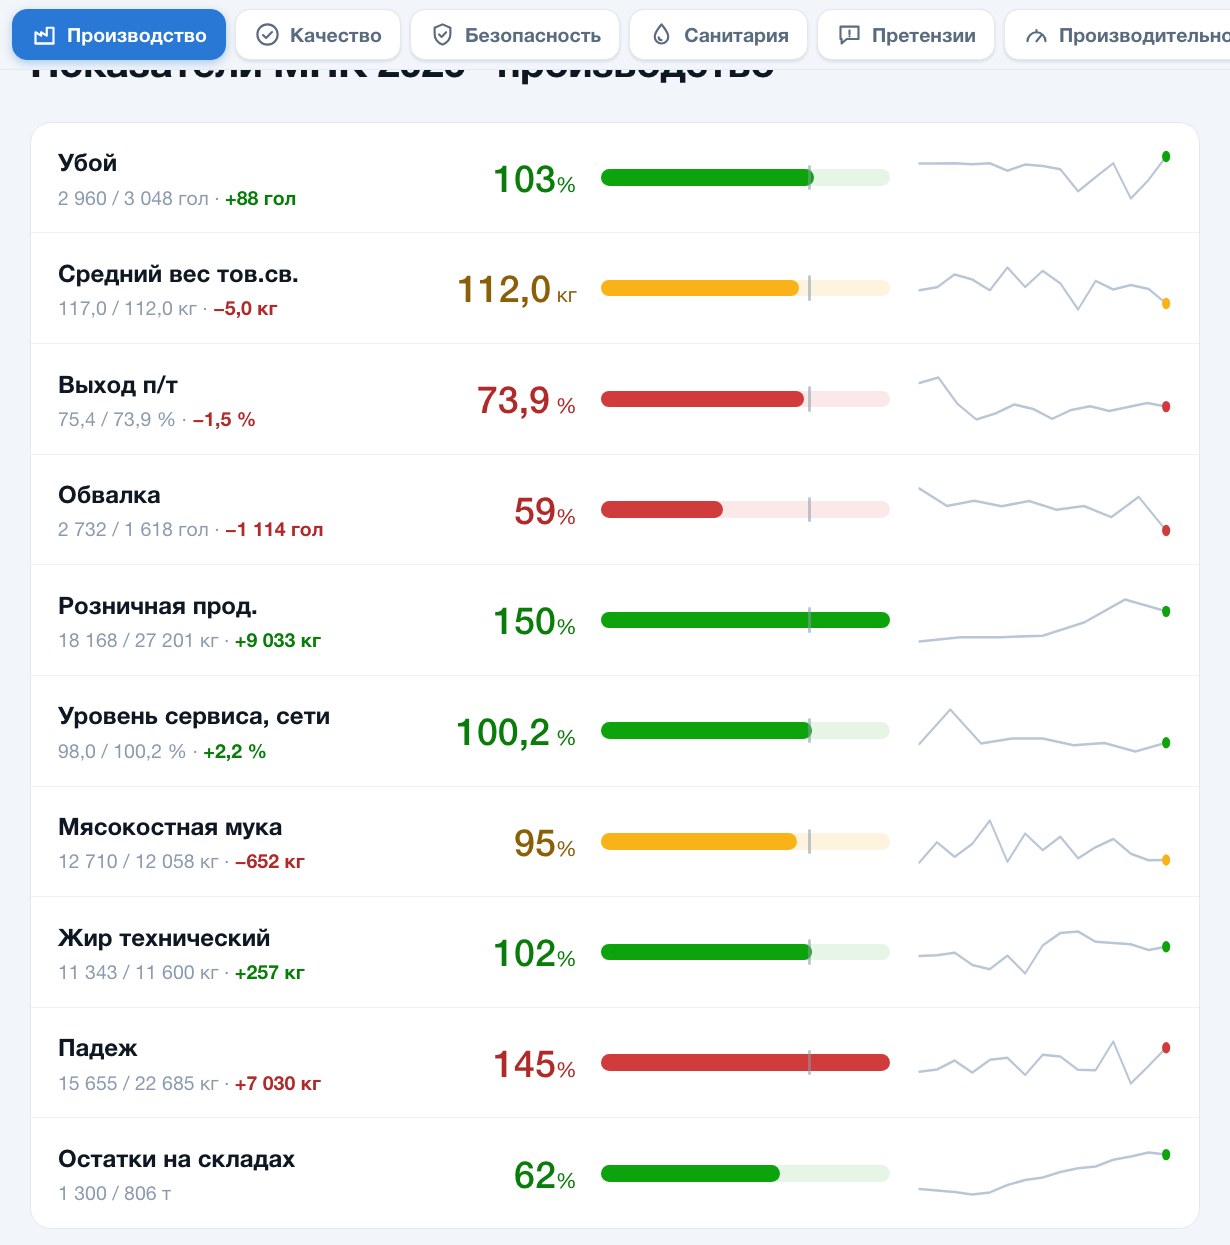
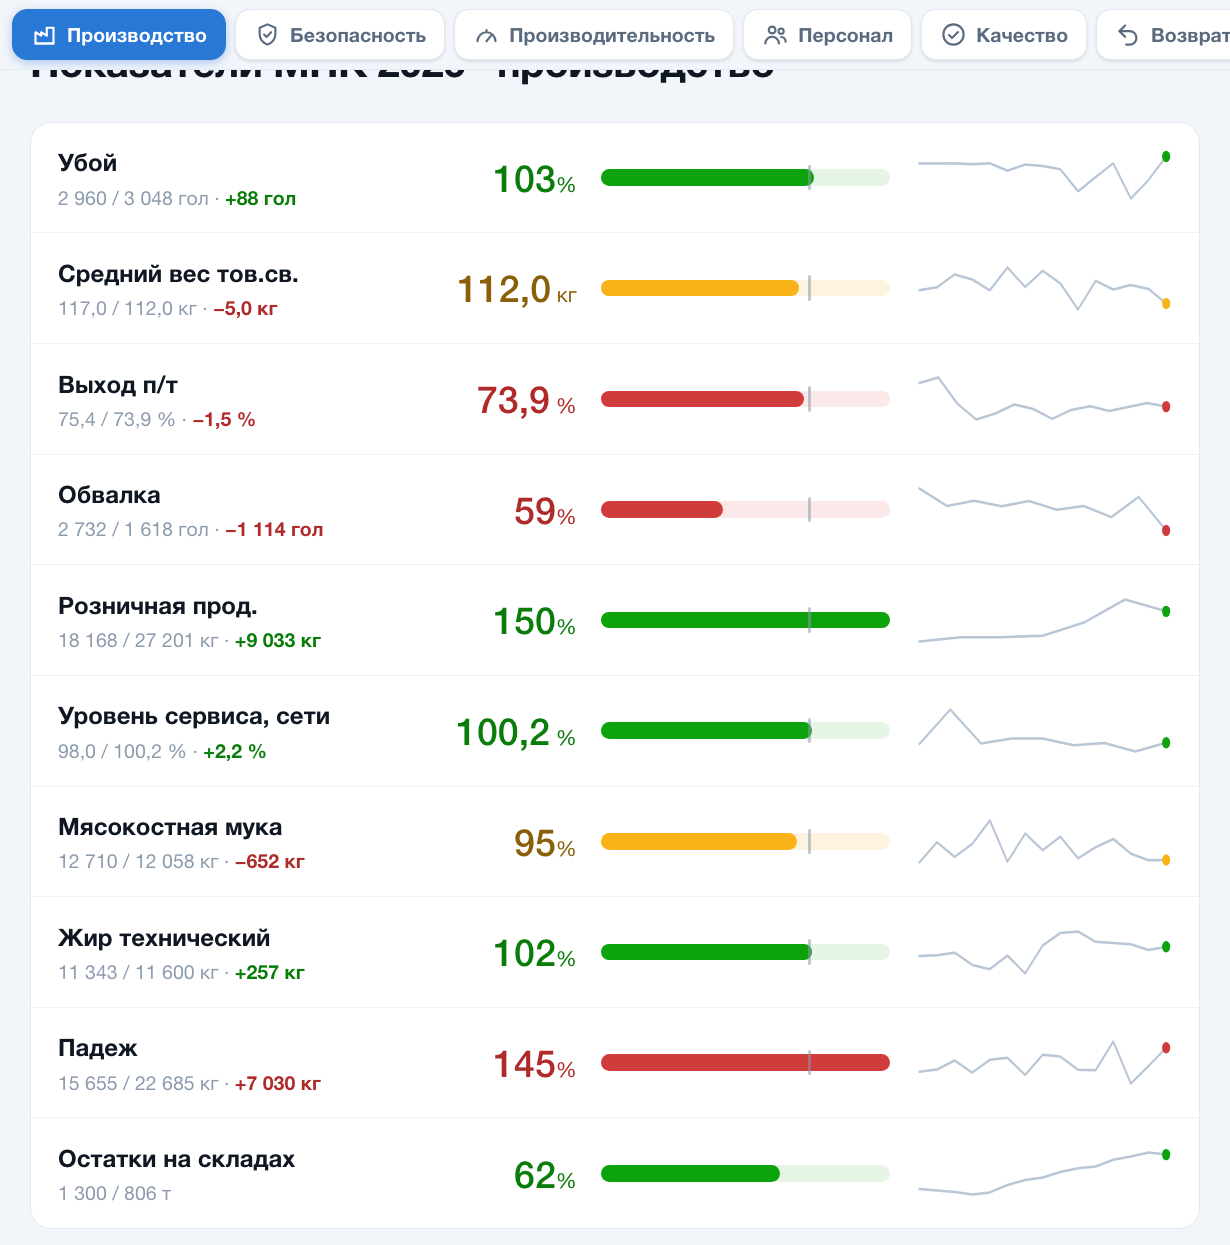
Данные по 15.10.2026

Changed region(s): [[0.4634, 0.0, 0.9577, 0.061], [0.278, 0.0, 0.4325, 0.061], [0.9886, 0.0, 1.0, 0.0305]]

diff --git a/index.html b/index.html
@@ -8,10 +8,10 @@
 <meta property="og:type" content="website">
 <meta property="og:site_name" content="&#8203;">
 <meta property="og:title" content="Сводка МПК за 15.10.2026">
-<meta property="og:image" content="https://pashaleb-alt.github.io/MPK/preview.png?v=20261017061342">
+<meta property="og:image" content="https://pashaleb-alt.github.io/MPK/preview.png?v=20261017061742">
 <meta property="og:image:width" content="1230"><meta property="og:image:height" content="1245">
 <meta name="twitter:card" content="summary_large_image">
-<meta name="twitter:image" content="https://pashaleb-alt.github.io/MPK/preview.png?v=20261017061342">
+<meta name="twitter:image" content="https://pashaleb-alt.github.io/MPK/preview.png?v=20261017061742">
 <title>Показатели МПК 2026</title>
 <style>:root{color-scheme:light dark}html,body{margin:0;padding:0}img{max-width:100%}[hidden]{display:none!important}</style>
 <script>if(/tgWebApp/.test(location.hash)){var s=document.createElement("script");s.src="https://telegram.org/js/telegram-web-app.js";s.onload=function(){try{Telegram.WebApp.ready();Telegram.WebApp.expand()}catch(e){}};document.head.appendChild(s)}</script>
@@ -191,7 +191,7 @@ input[type=date]:focus-visible{outline:2px solid var(--accent);outline-offset:2p
 (()=>{try{const q=new URLSearchParams(location.search).get("theme"); if(q==="light"||q==="dark") localStorage.setItem("mpkTheme",q); if(q==="auto") localStorage.setItem("mpkTheme","auto");
 const t=localStorage.getItem("mpkTheme")||"light"; if(t!=="auto") document.documentElement.setAttribute("data-theme",t);}catch(e){document.documentElement.setAttribute("data-theme","light")}})();</script>
 <div class="wrap">
-  <nav class="dashnav" aria-label="Дашборды"><a href="/MPK/" class="on" data-p="prod"><svg viewBox="0 0 24 24" aria-hidden="true"><path d="M4 20V10l5 3V10l5 3V6h6v14z"/><path d="M4 20h16"/></svg><span>Производство</span></a><a href="/MPK/quality/" data-p="quality"><svg viewBox="0 0 24 24" aria-hidden="true"><circle cx="12" cy="12" r="9"/><path d="M8 12.5l2.7 2.7L16 9.8"/></svg><span>Качество</span></a><a href="/MPK/safety/" data-p="safety"><svg viewBox="0 0 24 24" aria-hidden="true"><path d="M12 3l7 3v5.5c0 4.3-2.9 7.7-7 9.5-4.1-1.8-7-5.2-7-9.5V6z"/><path d="M9 12l2.2 2.2L15.2 10"/></svg><span>Безопасность</span></a><a href="/MPK/sanitary/" data-p="sanitary"><svg viewBox="0 0 24 24" aria-hidden="true"><path d="M12 3c3.2 4 6 7 6 11a6 6 0 0 1-12 0c0-4 2.8-7 6-11z"/><path d="M9.5 14.5a2.5 2.5 0 0 0 2.5 2.5"/></svg><span>Санитария</span></a><a href="/MPK/claims/" data-p="claims"><svg viewBox="0 0 24 24" aria-hidden="true"><path d="M4 5h16v11H9.5L5 20v-4H4z"/><path d="M12 8.5v3.2"/><path d="M12 13.6v.1"/></svg><span>Претензии</span></a><a href="/MPK/labor/" data-p="labor"><svg viewBox="0 0 24 24" aria-hidden="true"><path d="M4 18a8 8 0 1 1 16 0"/><path d="M12 18l4-5"/><path d="M12 8v1.5"/></svg><span><span class="lf">Производительность</span><span class="ls">Произв. труда</span></span></a><a href="/MPK/returns/" data-p="returns"><svg viewBox="0 0 24 24" aria-hidden="true"><path d="M9 14L4 9l5-5"/><path d="M4 9h9a6 6 0 0 1 0 12h-3"/></svg><span>Возвраты</span></a><a href="/MPK/staff/" data-p="staff"><svg viewBox="0 0 24 24" aria-hidden="true"><circle cx="9" cy="8" r="3"/><path d="M3 20c0-3.3 2.7-6 6-6s6 2.7 6 6"/><circle cx="17" cy="9" r="2.3"/><path d="M17 14.2c2.4 0 4 1.8 4 4.3"/></svg><span>Персонал</span></a></nav>
+  <nav class="dashnav" aria-label="Дашборды"><a href="/MPK/" class="on" data-p="prod"><svg viewBox="0 0 24 24" aria-hidden="true"><path d="M4 20V10l5 3V10l5 3V6h6v14z"/><path d="M4 20h16"/></svg><span>Производство</span></a><a href="/MPK/safety/" data-p="safety"><svg viewBox="0 0 24 24" aria-hidden="true"><path d="M12 3l7 3v5.5c0 4.3-2.9 7.7-7 9.5-4.1-1.8-7-5.2-7-9.5V6z"/><path d="M9 12l2.2 2.2L15.2 10"/></svg><span>Безопасность</span></a><a href="/MPK/labor/" data-p="labor"><svg viewBox="0 0 24 24" aria-hidden="true"><path d="M4 18a8 8 0 1 1 16 0"/><path d="M12 18l4-5"/><path d="M12 8v1.5"/></svg><span><span class="lf">Производительность</span><span class="ls">Произв. труда</span></span></a><a href="/MPK/staff/" data-p="staff"><svg viewBox="0 0 24 24" aria-hidden="true"><circle cx="9" cy="8" r="3"/><path d="M3 20c0-3.3 2.7-6 6-6s6 2.7 6 6"/><circle cx="17" cy="9" r="2.3"/><path d="M17 14.2c2.4 0 4 1.8 4 4.3"/></svg><span>Персонал</span></a><a href="/MPK/quality/" data-p="quality"><svg viewBox="0 0 24 24" aria-hidden="true"><circle cx="12" cy="12" r="9"/><path d="M8 12.5l2.7 2.7L16 9.8"/></svg><span>Качество</span></a><a href="/MPK/returns/" data-p="returns"><svg viewBox="0 0 24 24" aria-hidden="true"><path d="M9 14L4 9l5-5"/><path d="M4 9h9a6 6 0 0 1 0 12h-3"/></svg><span>Возвраты</span></a><a href="/MPK/claims/" data-p="claims"><svg viewBox="0 0 24 24" aria-hidden="true"><path d="M4 5h16v11H9.5L5 20v-4H4z"/><path d="M12 8.5v3.2"/><path d="M12 13.6v.1"/></svg><span>Претензии</span></a><a href="/MPK/sanitary/" data-p="sanitary"><svg viewBox="0 0 24 24" aria-hidden="true"><path d="M12 3c3.2 4 6 7 6 11a6 6 0 0 1-12 0c0-4 2.8-7 6-11z"/><path d="M9.5 14.5a2.5 2.5 0 0 0 2.5 2.5"/></svg><span>Санитария</span></a></nav>
 <script>(()=>{try{if(!navigator.standalone&&!matchMedia("(display-mode: standalone)").matches&&!/tgWebApp/.test(location.hash)&&/iPhone|iPad/.test(navigator.userAgent))document.documentElement.classList.add("inbrowser")}catch(e){}})();</script>
 <script>document.querySelectorAll(".dashnav a").forEach(a=>a.addEventListener("click",e=>{e.preventDefault();const u=new URL(a.getAttribute("href"),location.origin);u.searchParams.set("v",Date.now());location.assign(u.toString())}));</script>
 <script>(()=>{const c=()=>{try{const n=document.querySelector(".dashnav"),a=n.querySelector("a.on");if(a)n.scrollLeft=a.offsetLeft-(n.clientWidth-a.offsetWidth)/2}catch(e){}};addEventListener("DOMContentLoaded",c);addEventListener("load",c);setTimeout(c,60);setTimeout(c,400)})();</script>

diff --git a/labor/index.html b/labor/index.html
@@ -8,10 +8,10 @@
 <meta property="og:type" content="website">
 <meta property="og:site_name" content="&#8203;">
 <meta property="og:title" content="Сводка МПК за 15.10.2026">
-<meta property="og:image" content="https://pashaleb-alt.github.io/MPK/preview.png?v=20261017061342">
+<meta property="og:image" content="https://pashaleb-alt.github.io/MPK/preview.png?v=20261017061742">
 <meta property="og:image:width" content="1230"><meta property="og:image:height" content="1245">
 <meta name="twitter:card" content="summary_large_image">
-<meta name="twitter:image" content="https://pashaleb-alt.github.io/MPK/preview.png?v=20261017061342">
+<meta name="twitter:image" content="https://pashaleb-alt.github.io/MPK/preview.png?v=20261017061742">
 <title>Показатели МПК 2026</title>
 <style>:root{color-scheme:light dark}html,body{margin:0;padding:0}img{max-width:100%}[hidden]{display:none!important}</style>
 <script>if(/tgWebApp/.test(location.hash)){var s=document.createElement("script");s.src="https://telegram.org/js/telegram-web-app.js";s.onload=function(){try{Telegram.WebApp.ready();Telegram.WebApp.expand()}catch(e){}};document.head.appendChild(s)}</script>
@@ -191,7 +191,7 @@ input[type=date]:focus-visible{outline:2px solid var(--accent);outline-offset:2p
 (()=>{try{const q=new URLSearchParams(location.search).get("theme"); if(q==="light"||q==="dark") localStorage.setItem("mpkTheme",q); if(q==="auto") localStorage.setItem("mpkTheme","auto");
 const t=localStorage.getItem("mpkTheme")||"light"; if(t!=="auto") document.documentElement.setAttribute("data-theme",t);}catch(e){document.documentElement.setAttribute("data-theme","light")}})();</script>
 <div class="wrap">
-  <nav class="dashnav" aria-label="Дашборды"><a href="/MPK/" class="on" data-p="prod"><svg viewBox="0 0 24 24" aria-hidden="true"><path d="M4 20V10l5 3V10l5 3V6h6v14z"/><path d="M4 20h16"/></svg><span>Производство</span></a><a href="/MPK/quality/" data-p="quality"><svg viewBox="0 0 24 24" aria-hidden="true"><circle cx="12" cy="12" r="9"/><path d="M8 12.5l2.7 2.7L16 9.8"/></svg><span>Качество</span></a><a href="/MPK/safety/" data-p="safety"><svg viewBox="0 0 24 24" aria-hidden="true"><path d="M12 3l7 3v5.5c0 4.3-2.9 7.7-7 9.5-4.1-1.8-7-5.2-7-9.5V6z"/><path d="M9 12l2.2 2.2L15.2 10"/></svg><span>Безопасность</span></a><a href="/MPK/sanitary/" data-p="sanitary"><svg viewBox="0 0 24 24" aria-hidden="true"><path d="M12 3c3.2 4 6 7 6 11a6 6 0 0 1-12 0c0-4 2.8-7 6-11z"/><path d="M9.5 14.5a2.5 2.5 0 0 0 2.5 2.5"/></svg><span>Санитария</span></a><a href="/MPK/claims/" data-p="claims"><svg viewBox="0 0 24 24" aria-hidden="true"><path d="M4 5h16v11H9.5L5 20v-4H4z"/><path d="M12 8.5v3.2"/><path d="M12 13.6v.1"/></svg><span>Претензии</span></a><a href="/MPK/labor/" data-p="labor"><svg viewBox="0 0 24 24" aria-hidden="true"><path d="M4 18a8 8 0 1 1 16 0"/><path d="M12 18l4-5"/><path d="M12 8v1.5"/></svg><span><span class="lf">Производительность</span><span class="ls">Произв. труда</span></span></a><a href="/MPK/returns/" data-p="returns"><svg viewBox="0 0 24 24" aria-hidden="true"><path d="M9 14L4 9l5-5"/><path d="M4 9h9a6 6 0 0 1 0 12h-3"/></svg><span>Возвраты</span></a><a href="/MPK/staff/" data-p="staff"><svg viewBox="0 0 24 24" aria-hidden="true"><circle cx="9" cy="8" r="3"/><path d="M3 20c0-3.3 2.7-6 6-6s6 2.7 6 6"/><circle cx="17" cy="9" r="2.3"/><path d="M17 14.2c2.4 0 4 1.8 4 4.3"/></svg><span>Персонал</span></a></nav>
+  <nav class="dashnav" aria-label="Дашборды"><a href="/MPK/" class="on" data-p="prod"><svg viewBox="0 0 24 24" aria-hidden="true"><path d="M4 20V10l5 3V10l5 3V6h6v14z"/><path d="M4 20h16"/></svg><span>Производство</span></a><a href="/MPK/safety/" data-p="safety"><svg viewBox="0 0 24 24" aria-hidden="true"><path d="M12 3l7 3v5.5c0 4.3-2.9 7.7-7 9.5-4.1-1.8-7-5.2-7-9.5V6z"/><path d="M9 12l2.2 2.2L15.2 10"/></svg><span>Безопасность</span></a><a href="/MPK/labor/" data-p="labor"><svg viewBox="0 0 24 24" aria-hidden="true"><path d="M4 18a8 8 0 1 1 16 0"/><path d="M12 18l4-5"/><path d="M12 8v1.5"/></svg><span><span class="lf">Производительность</span><span class="ls">Произв. труда</span></span></a><a href="/MPK/staff/" data-p="staff"><svg viewBox="0 0 24 24" aria-hidden="true"><circle cx="9" cy="8" r="3"/><path d="M3 20c0-3.3 2.7-6 6-6s6 2.7 6 6"/><circle cx="17" cy="9" r="2.3"/><path d="M17 14.2c2.4 0 4 1.8 4 4.3"/></svg><span>Персонал</span></a><a href="/MPK/quality/" data-p="quality"><svg viewBox="0 0 24 24" aria-hidden="true"><circle cx="12" cy="12" r="9"/><path d="M8 12.5l2.7 2.7L16 9.8"/></svg><span>Качество</span></a><a href="/MPK/returns/" data-p="returns"><svg viewBox="0 0 24 24" aria-hidden="true"><path d="M9 14L4 9l5-5"/><path d="M4 9h9a6 6 0 0 1 0 12h-3"/></svg><span>Возвраты</span></a><a href="/MPK/claims/" data-p="claims"><svg viewBox="0 0 24 24" aria-hidden="true"><path d="M4 5h16v11H9.5L5 20v-4H4z"/><path d="M12 8.5v3.2"/><path d="M12 13.6v.1"/></svg><span>Претензии</span></a><a href="/MPK/sanitary/" data-p="sanitary"><svg viewBox="0 0 24 24" aria-hidden="true"><path d="M12 3c3.2 4 6 7 6 11a6 6 0 0 1-12 0c0-4 2.8-7 6-11z"/><path d="M9.5 14.5a2.5 2.5 0 0 0 2.5 2.5"/></svg><span>Санитария</span></a></nav>
 <script>(()=>{try{if(!navigator.standalone&&!matchMedia("(display-mode: standalone)").matches&&!/tgWebApp/.test(location.hash)&&/iPhone|iPad/.test(navigator.userAgent))document.documentElement.classList.add("inbrowser")}catch(e){}})();</script>
 <script>document.querySelectorAll(".dashnav a").forEach(a=>a.addEventListener("click",e=>{e.preventDefault();const u=new URL(a.getAttribute("href"),location.origin);u.searchParams.set("v",Date.now());location.assign(u.toString())}));</script>
 <script>(()=>{const c=()=>{try{const n=document.querySelector(".dashnav"),a=n.querySelector("a.on");if(a)n.scrollLeft=a.offsetLeft-(n.clientWidth-a.offsetWidth)/2}catch(e){}};addEventListener("DOMContentLoaded",c);addEventListener("load",c);setTimeout(c,60);setTimeout(c,400)})();</script>

diff --git a/staff/index.html b/staff/index.html
@@ -8,10 +8,10 @@
 <meta property="og:type" content="website">
 <meta property="og:site_name" content="&#8203;">
 <meta property="og:title" content="Сводка МПК за 15.10.2026">
-<meta property="og:image" content="https://pashaleb-alt.github.io/MPK/preview.png?v=20261017061342">
+<meta property="og:image" content="https://pashaleb-alt.github.io/MPK/preview.png?v=20261017061742">
 <meta property="og:image:width" content="1230"><meta property="og:image:height" content="1245">
 <meta name="twitter:card" content="summary_large_image">
-<meta name="twitter:image" content="https://pashaleb-alt.github.io/MPK/preview.png?v=20261017061342">
+<meta name="twitter:image" content="https://pashaleb-alt.github.io/MPK/preview.png?v=20261017061742">
 <title>Показатели МПК 2026</title>
 <style>:root{color-scheme:light dark}html,body{margin:0;padding:0}img{max-width:100%}[hidden]{display:none!important}</style>
 <script>if(/tgWebApp/.test(location.hash)){var s=document.createElement("script");s.src="https://telegram.org/js/telegram-web-app.js";s.onload=function(){try{Telegram.WebApp.ready();Telegram.WebApp.expand()}catch(e){}};document.head.appendChild(s)}</script>
@@ -191,7 +191,7 @@ input[type=date]:focus-visible{outline:2px solid var(--accent);outline-offset:2p
 (()=>{try{const q=new URLSearchParams(location.search).get("theme"); if(q==="light"||q==="dark") localStorage.setItem("mpkTheme",q); if(q==="auto") localStorage.setItem("mpkTheme","auto");
 const t=localStorage.getItem("mpkTheme")||"light"; if(t!=="auto") document.documentElement.setAttribute("data-theme",t);}catch(e){document.documentElement.setAttribute("data-theme","light")}})();</script>
 <div class="wrap">
-  <nav class="dashnav" aria-label="Дашборды"><a href="/MPK/" class="on" data-p="prod"><svg viewBox="0 0 24 24" aria-hidden="true"><path d="M4 20V10l5 3V10l5 3V6h6v14z"/><path d="M4 20h16"/></svg><span>Производство</span></a><a href="/MPK/quality/" data-p="quality"><svg viewBox="0 0 24 24" aria-hidden="true"><circle cx="12" cy="12" r="9"/><path d="M8 12.5l2.7 2.7L16 9.8"/></svg><span>Качество</span></a><a href="/MPK/safety/" data-p="safety"><svg viewBox="0 0 24 24" aria-hidden="true"><path d="M12 3l7 3v5.5c0 4.3-2.9 7.7-7 9.5-4.1-1.8-7-5.2-7-9.5V6z"/><path d="M9 12l2.2 2.2L15.2 10"/></svg><span>Безопасность</span></a><a href="/MPK/sanitary/" data-p="sanitary"><svg viewBox="0 0 24 24" aria-hidden="true"><path d="M12 3c3.2 4 6 7 6 11a6 6 0 0 1-12 0c0-4 2.8-7 6-11z"/><path d="M9.5 14.5a2.5 2.5 0 0 0 2.5 2.5"/></svg><span>Санитария</span></a><a href="/MPK/claims/" data-p="claims"><svg viewBox="0 0 24 24" aria-hidden="true"><path d="M4 5h16v11H9.5L5 20v-4H4z"/><path d="M12 8.5v3.2"/><path d="M12 13.6v.1"/></svg><span>Претензии</span></a><a href="/MPK/labor/" data-p="labor"><svg viewBox="0 0 24 24" aria-hidden="true"><path d="M4 18a8 8 0 1 1 16 0"/><path d="M12 18l4-5"/><path d="M12 8v1.5"/></svg><span><span class="lf">Производительность</span><span class="ls">Произв. труда</span></span></a><a href="/MPK/returns/" data-p="returns"><svg viewBox="0 0 24 24" aria-hidden="true"><path d="M9 14L4 9l5-5"/><path d="M4 9h9a6 6 0 0 1 0 12h-3"/></svg><span>Возвраты</span></a><a href="/MPK/staff/" data-p="staff"><svg viewBox="0 0 24 24" aria-hidden="true"><circle cx="9" cy="8" r="3"/><path d="M3 20c0-3.3 2.7-6 6-6s6 2.7 6 6"/><circle cx="17" cy="9" r="2.3"/><path d="M17 14.2c2.4 0 4 1.8 4 4.3"/></svg><span>Персонал</span></a></nav>
+  <nav class="dashnav" aria-label="Дашборды"><a href="/MPK/" class="on" data-p="prod"><svg viewBox="0 0 24 24" aria-hidden="true"><path d="M4 20V10l5 3V10l5 3V6h6v14z"/><path d="M4 20h16"/></svg><span>Производство</span></a><a href="/MPK/safety/" data-p="safety"><svg viewBox="0 0 24 24" aria-hidden="true"><path d="M12 3l7 3v5.5c0 4.3-2.9 7.7-7 9.5-4.1-1.8-7-5.2-7-9.5V6z"/><path d="M9 12l2.2 2.2L15.2 10"/></svg><span>Безопасность</span></a><a href="/MPK/labor/" data-p="labor"><svg viewBox="0 0 24 24" aria-hidden="true"><path d="M4 18a8 8 0 1 1 16 0"/><path d="M12 18l4-5"/><path d="M12 8v1.5"/></svg><span><span class="lf">Производительность</span><span class="ls">Произв. труда</span></span></a><a href="/MPK/staff/" data-p="staff"><svg viewBox="0 0 24 24" aria-hidden="true"><circle cx="9" cy="8" r="3"/><path d="M3 20c0-3.3 2.7-6 6-6s6 2.7 6 6"/><circle cx="17" cy="9" r="2.3"/><path d="M17 14.2c2.4 0 4 1.8 4 4.3"/></svg><span>Персонал</span></a><a href="/MPK/quality/" data-p="quality"><svg viewBox="0 0 24 24" aria-hidden="true"><circle cx="12" cy="12" r="9"/><path d="M8 12.5l2.7 2.7L16 9.8"/></svg><span>Качество</span></a><a href="/MPK/returns/" data-p="returns"><svg viewBox="0 0 24 24" aria-hidden="true"><path d="M9 14L4 9l5-5"/><path d="M4 9h9a6 6 0 0 1 0 12h-3"/></svg><span>Возвраты</span></a><a href="/MPK/claims/" data-p="claims"><svg viewBox="0 0 24 24" aria-hidden="true"><path d="M4 5h16v11H9.5L5 20v-4H4z"/><path d="M12 8.5v3.2"/><path d="M12 13.6v.1"/></svg><span>Претензии</span></a><a href="/MPK/sanitary/" data-p="sanitary"><svg viewBox="0 0 24 24" aria-hidden="true"><path d="M12 3c3.2 4 6 7 6 11a6 6 0 0 1-12 0c0-4 2.8-7 6-11z"/><path d="M9.5 14.5a2.5 2.5 0 0 0 2.5 2.5"/></svg><span>Санитария</span></a></nav>
 <script>(()=>{try{if(!navigator.standalone&&!matchMedia("(display-mode: standalone)").matches&&!/tgWebApp/.test(location.hash)&&/iPhone|iPad/.test(navigator.userAgent))document.documentElement.classList.add("inbrowser")}catch(e){}})();</script>
 <script>document.querySelectorAll(".dashnav a").forEach(a=>a.addEventListener("click",e=>{e.preventDefault();const u=new URL(a.getAttribute("href"),location.origin);u.searchParams.set("v",Date.now());location.assign(u.toString())}));</script>
 <script>(()=>{const c=()=>{try{const n=document.querySelector(".dashnav"),a=n.querySelector("a.on");if(a)n.scrollLeft=a.offsetLeft-(n.clientWidth-a.offsetWidth)/2}catch(e){}};addEventListener("DOMContentLoaded",c);addEventListener("load",c);setTimeout(c,60);setTimeout(c,400)})();</script>
